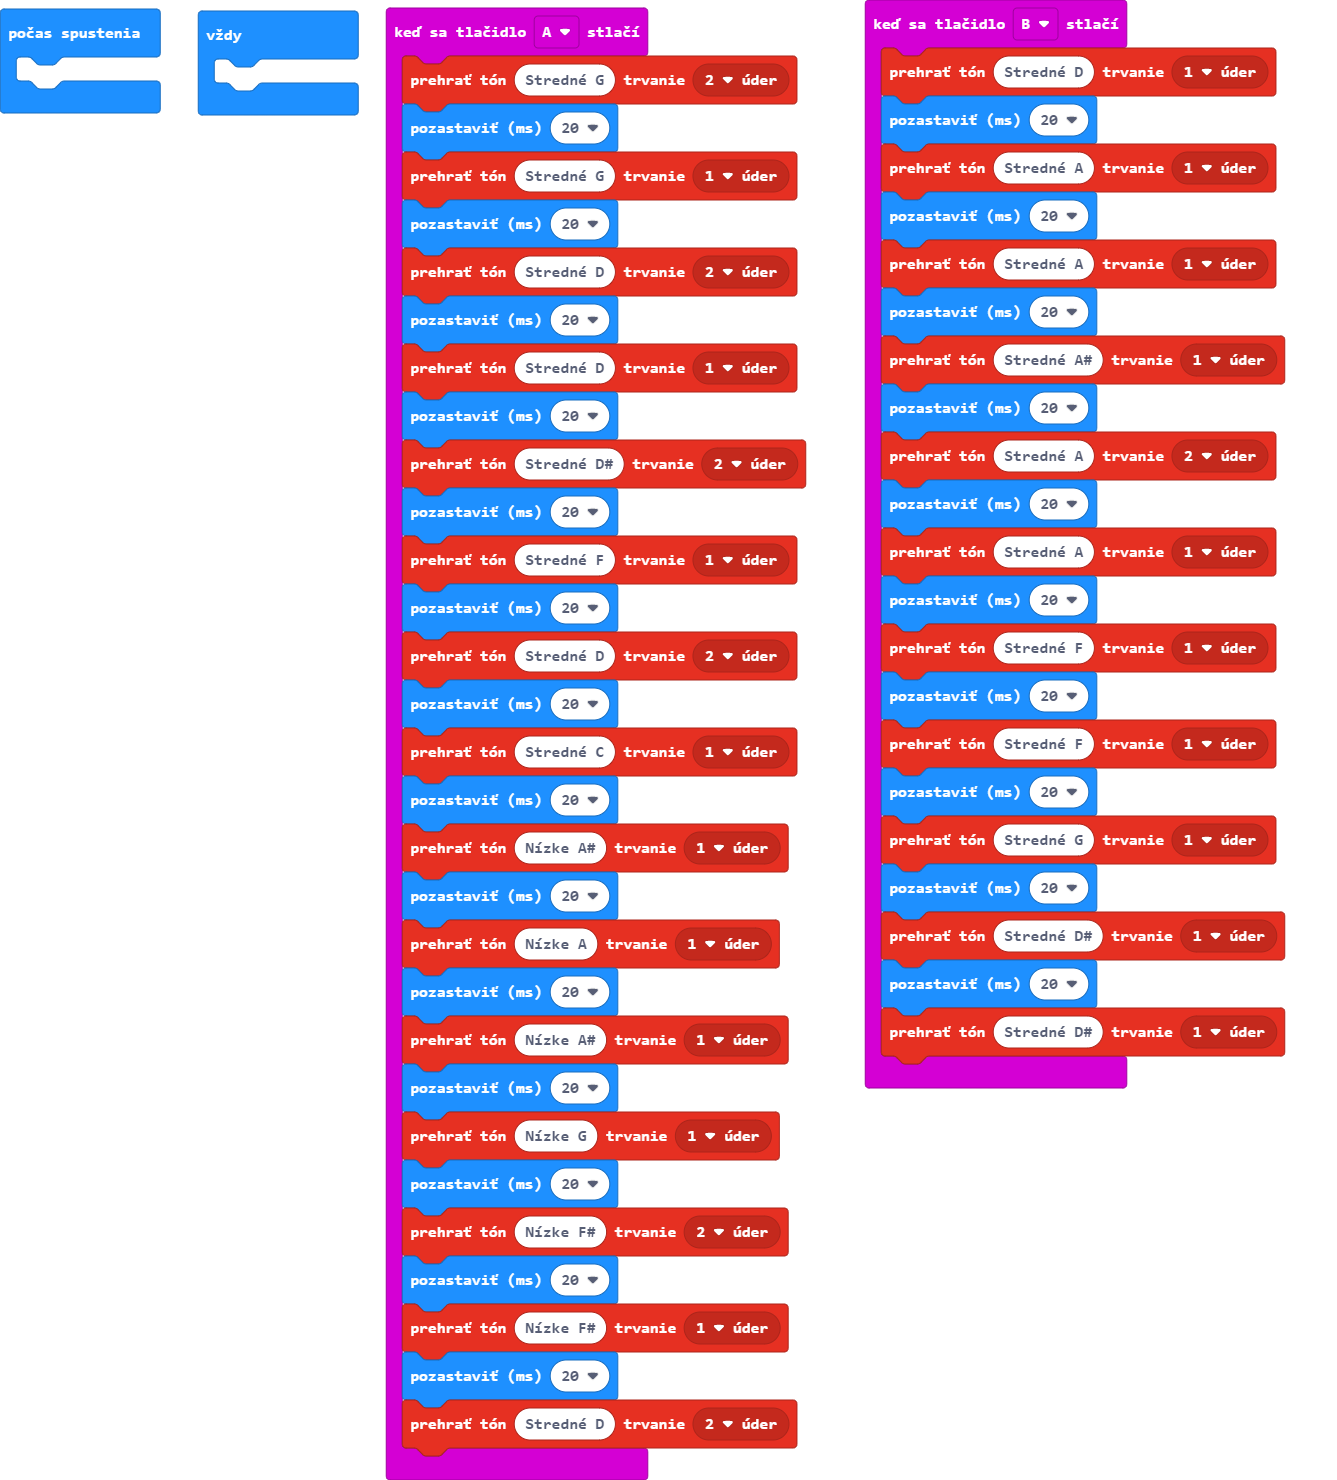
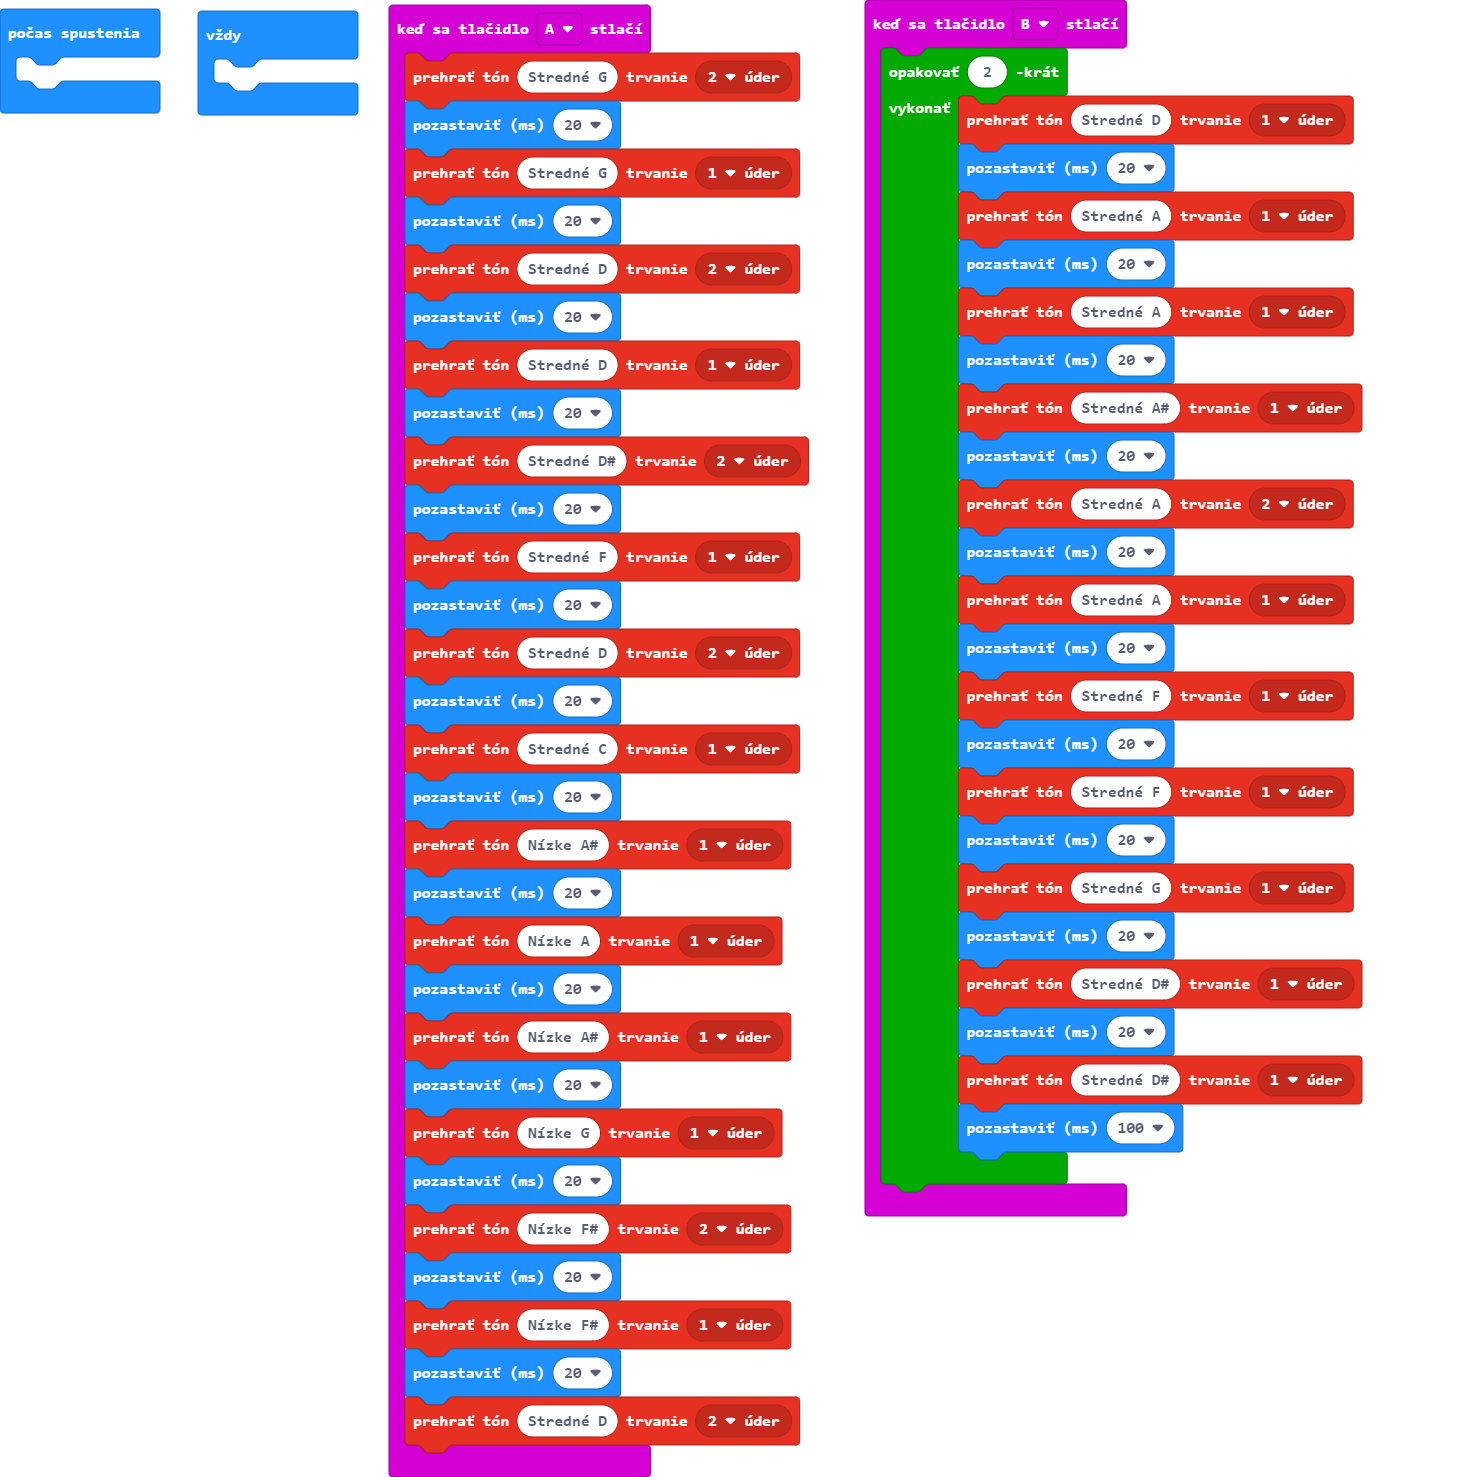
Aktualizovať main.blocks, main.ts

diff --git a/main.ts b/main.ts
@@ -30,27 +30,30 @@ input.onButtonPressed(Button.A, function () {
     music.playTone(294, music.beat(BeatFraction.Double))
 })
 input.onButtonPressed(Button.B, function () {
-    music.playTone(294, music.beat(BeatFraction.Whole))
-    basic.pause(20)
-    music.playTone(440, music.beat(BeatFraction.Whole))
-    basic.pause(20)
-    music.playTone(440, music.beat(BeatFraction.Whole))
-    basic.pause(20)
-    music.playTone(466, music.beat(BeatFraction.Whole))
-    basic.pause(20)
-    music.playTone(440, music.beat(BeatFraction.Double))
-    basic.pause(20)
-    music.playTone(440, music.beat(BeatFraction.Whole))
-    basic.pause(20)
-    music.playTone(349, music.beat(BeatFraction.Whole))
-    basic.pause(20)
-    music.playTone(349, music.beat(BeatFraction.Whole))
-    basic.pause(20)
-    music.playTone(392, music.beat(BeatFraction.Whole))
-    basic.pause(20)
-    music.playTone(311, music.beat(BeatFraction.Whole))
-    basic.pause(20)
-    music.playTone(311, music.beat(BeatFraction.Whole))
+    for (let index = 0; index < 2; index++) {
+        music.playTone(294, music.beat(BeatFraction.Whole))
+        basic.pause(20)
+        music.playTone(440, music.beat(BeatFraction.Whole))
+        basic.pause(20)
+        music.playTone(440, music.beat(BeatFraction.Whole))
+        basic.pause(20)
+        music.playTone(466, music.beat(BeatFraction.Whole))
+        basic.pause(20)
+        music.playTone(440, music.beat(BeatFraction.Double))
+        basic.pause(20)
+        music.playTone(440, music.beat(BeatFraction.Whole))
+        basic.pause(20)
+        music.playTone(349, music.beat(BeatFraction.Whole))
+        basic.pause(20)
+        music.playTone(349, music.beat(BeatFraction.Whole))
+        basic.pause(20)
+        music.playTone(392, music.beat(BeatFraction.Whole))
+        basic.pause(20)
+        music.playTone(311, music.beat(BeatFraction.Whole))
+        basic.pause(20)
+        music.playTone(311, music.beat(BeatFraction.Whole))
+        basic.pause(100)
+    }
 })
 basic.forever(function () {
 	
